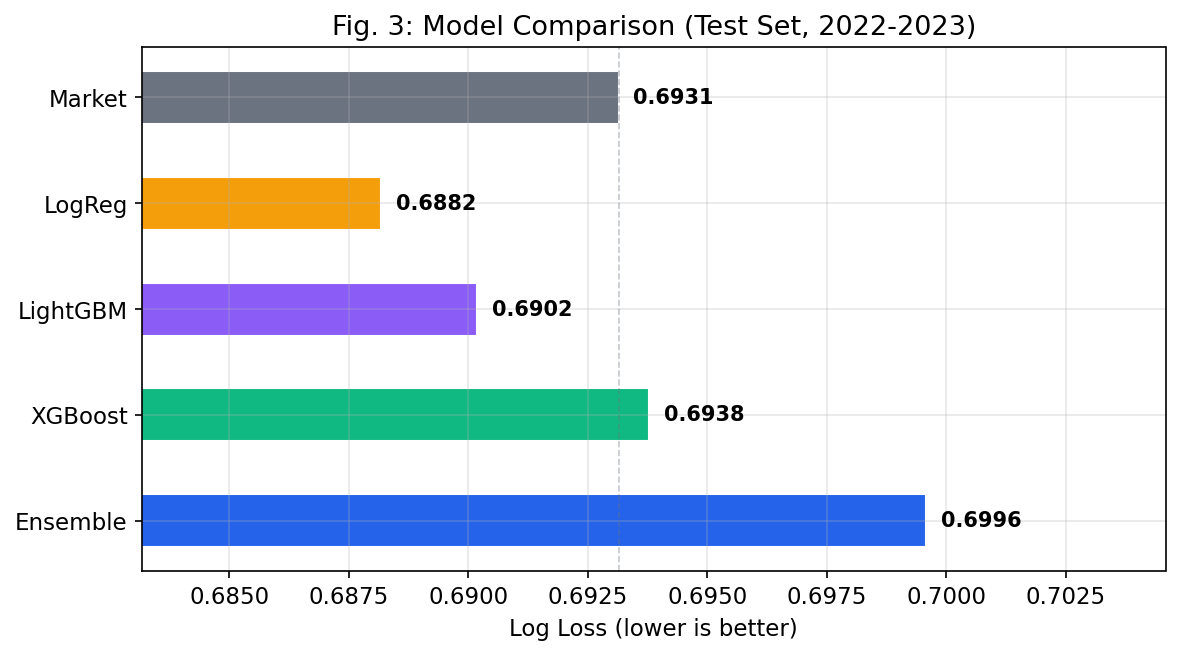
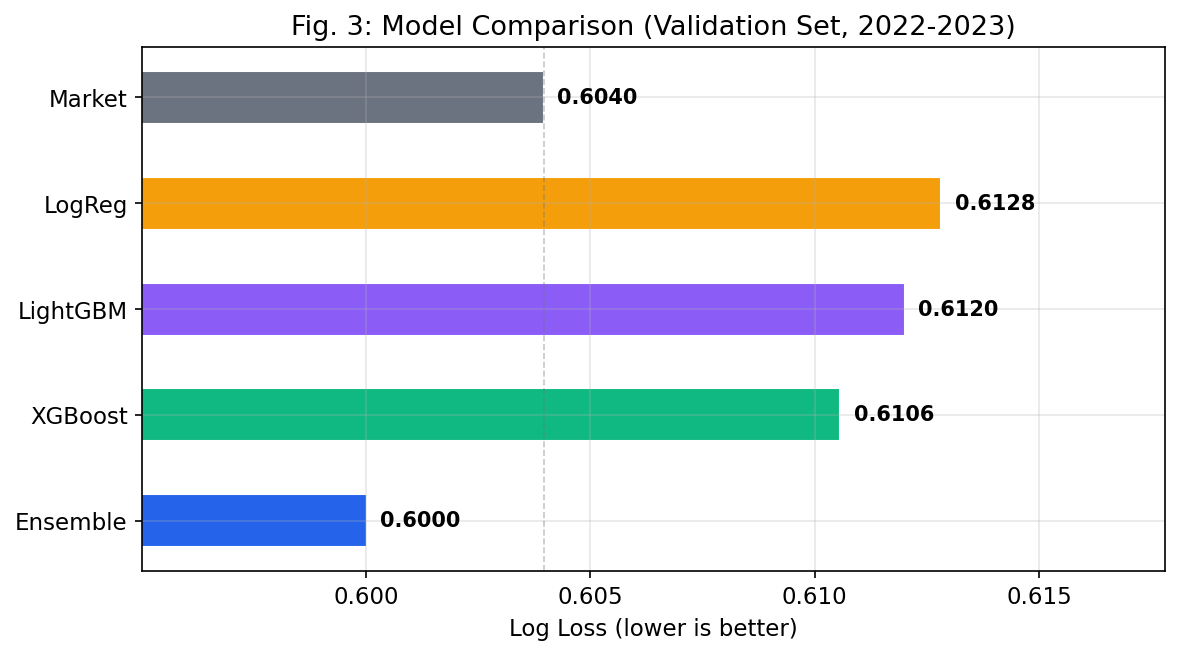
Fix model comparison chart: filter to odds-only fights
generate_charts.py was evaluating on all 8,436 fights including ~5,000
without odds (market_prob defaulting to 0.5), pushing log loss toward
coin-flip 0.693. Now filters to odds-only fights before temporal split,
matching what train_models() does internally.

diff --git a/generate_charts.py b/generate_charts.py
@@ -115,9 +115,10 @@ print("  yearly_pnl.png")
 
 # -- 4. Model comparison bar chart ----------------------------------------
 print("Training model for evaluation metrics...")
-result = train_models(df)
+df_odds = df[df["odds_a"].notna() & df["odds_b"].notna()].copy()
+result = train_models(df_odds)
 predictor = result["predictor"]
-_, val, test = temporal_split(df)
+_, val, test = temporal_split(df_odds)
 
 # Use val set since MMA test split may be empty depending on config
 eval_set = test if not test.empty else val
